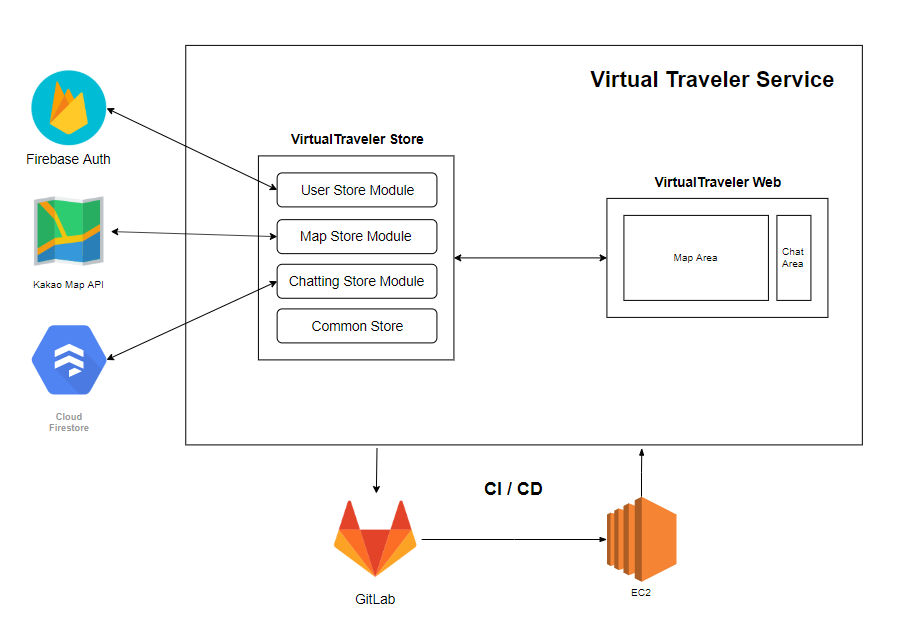
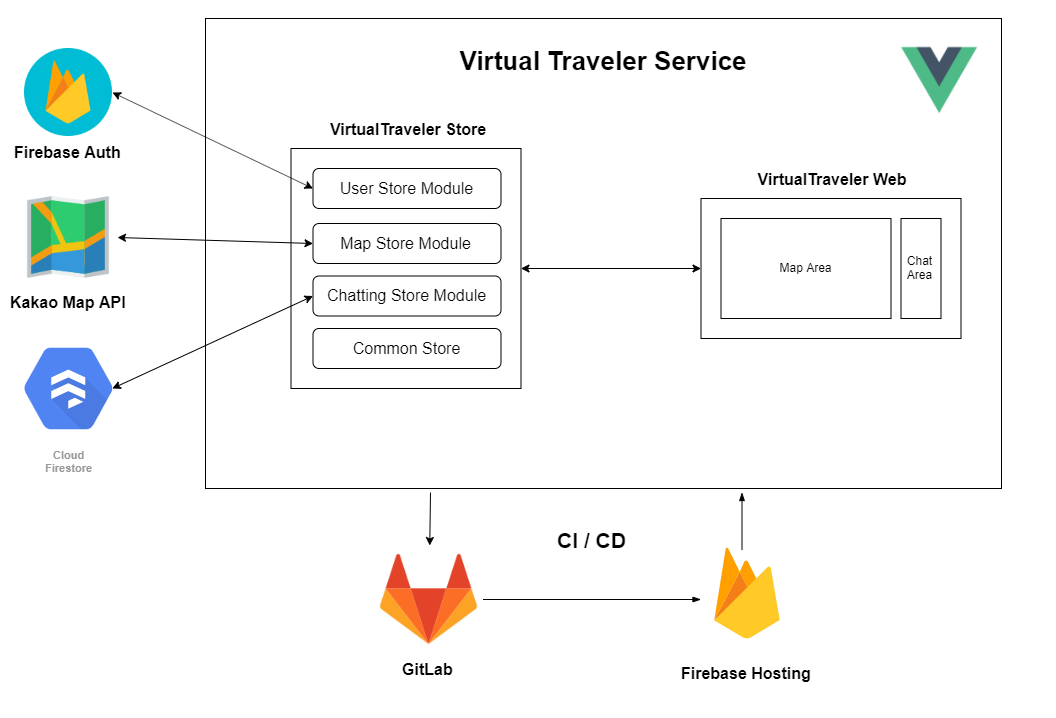
readme

Changed region(s): [[0.1554, 0.0604, 0.9634, 0.9666], [0.0, 0.0604, 0.1554, 0.6948], [0.2175, 0.0, 0.9323, 0.0302]]

diff --git a/README.md b/README.md
@@ -1,28 +1,46 @@
-# 방구석 여행
+<img src="./deliverables/logo.png" style="zoom:60%;" >
+
+## 🌎 웹으로 여행하자!
+
+- ### 일상에 지친 당신!
+
+- ### 여행갈 형편이 되지않는 당신!
+
+- ### 심심한 당신!
+
+  ### 바로 당신을 위한 가상 여행 서비스 '방구석 여행'
+
+  
+
+##  💡 주요 기능
+
+- ### 랜덤 닉네임
+
+  <img src="./deliverables/randomnickname.gif">
 
 
 
+- ### 실시간 마커 이동
 
-
-로고
-
-
-
-## 캐치프레이즈(Catchphrase)
+  <img src="./deliverables/realtimemarker.gif">
 
 
 
-## 주요 기능(Features)
+- ### 실시간 공유 로드뷰
+
+  <img src="./deliverables/realtimeroadview.gif">
 
 
 
-## 시작하기(Quick Start)
+- ### 채팅
+
+  <img src="./deliverables/chatting.gif">
 
 
 
-## 라이센스 (License)
+## 라이센스
 
-
+ ### This is released under the MIT license. See [LICENSE](./LICENSE) for details. 
 
 
 
@@ -34,31 +52,161 @@
 
 
 
-## 팀
+## 👨👩👧👦  팀
+
+- #### 조우현 : Project Manager
+
+  - `CI/CD`, `UI`, `Firebase Authentication`
+
+- #### 곽빛나라 : Map part Developer
+
+  - `Kakao map`, `chat room & map connector`
+
+- #### 채윤병 : Map part Developer
+
+  - `Kakao roadview`, `chat room & roadview connector`
+
+- #### 최승미 : Chat part Developer
+
+  - `Firestore Database design & implement`, `chat room design`
+
+- #### 강민 : Chat part Developer
+
+  - `Firestore Database design`, `random nickname`
 
 
 
-## 프로젝트 일정
+## 📆 프로젝트 일정
+
+<img src="./deliverables/schedule.png">
 
 
 
-## 프로젝트 특징
+## 💡 프로젝트 특징
+
+- CI / CD를 활용한 빌드 테스팅 / 배포 자동화
+
+  - Git Branch 전략
+
+    - `Master Branch` 
+
+      배포용 브랜치로 해당 브랜치로 merge되면 자동으로 배포된다.
+
+    - `Develop Branch` 
+
+      개발중 가장 최신화된 버전의 소스
+
+    - `Feature Branch`
+
+      기능 개발시 `Develop Branch`로 부터 생성, 개발 완료후 `Develop Branch`로 merge
+
+      
+
+  - Commit Chart
+
+    <img src="./deliverables/commitchart.png">
+
+    
+
+  - Pipeline Chart
+
+    <img src="./deliverables/pipelinechart.png">
 
 
 
-	## 프로젝트 아키텍쳐
+- 코드리뷰 및 문제해결 나누기
+
+  <img src="./deliverables/meeting2.jpg">
+
+  
+
+  <img src="./deliverables/meeting1.jpg">
 
 
 
+	## 🧱 프로젝트 아키텍쳐
+
+<img src="./deliverables/service-architecture.png">
+
+- Service Flow
+
+  <img src="./deliverables/serviceflow.jpg">
 
 
 
+## 📚 문제해결 및 도움되는 문서
 
-## WIKI
+- **문서 작성**
+
+  - <a href="./wiki/about_markdown.md">마크다운 기본 문법</a>
+
+    
+
+- **개발환경**
+
+  - CI / CD
+
+    - <a href="./wiki/cicd.md">CI / CD 개념정리</a>
+    - <a href="./wiki/gitlab-ci.md">GitLab CI/CD 도입하기</a>
+
+  - <a href="./wiki/about_vscode.md">VScode 팁 모음</a>
+
+  - <a href="./wiki/ESlint.md">ESlint</a>
+
+  - <a href="./wiki/about_MVVMpattern.md">MVVM패턴</a>
+
+    
+
+- **Chatting**
+
+  - <a href=" https://cionman.tistory.com/50 ">Firebase Realtime database chatting app</a>
+    - <a href="./wiki/about_realtime_database_chat.md">분석</a>
+  - <a href=" https://www.youtube.com/watch?v=ifOzAyR1cG4 ">Firebase Firestore chatting app</a>
+    - <a href="./wiki/about_firebase.md">분석</a>
+
+  
+
+- **Vue**
+
+  - <a href=" https://joshua1988.github.io/web-development/vuejs/vue-structure/ ">실무에서 사용하는 Vue.js 프로젝트 구조</a>
+  - <a href="https://joshua1988.github.io/web-development/vuejs/boost-productivity/">Vue.js 개발 생산성을 높여주는 도구 3가지</a>
+  - <a href=" https://programmingsummaries.tistory.com/385 ">pakage.json에 대하여</a>
+  - <a href="./wiki/vuex-vue.md">Vuex에 대하여</a>
+  - <a href="./wiki/es6-for-vue.md">Vue.js에 필요한 es6 문법</a>
+  - <a href="./wiki/lifecycle-vue.md">Lifecycle에 대하여</a>
+
+  
+
+- **JavaScript**
+
+  - <a href="./wiki/about_promise_async_await.md">비동기 개념 정리(Promise, Async/Await)</a>
+  - <a href="./wiki/javascript-modularization.md">ES6 Import & Export</a>
+  - <a href="./wiki/var_let_const.md">JavaScript의 변수선언(var, let, const)</a>
+  - <a href="./wiki/this.md">상황에 따른 this</a>
+  - <a href="./wiki/about_callback_function.md">Javascript의 callback 개념</a>
+  - <a href="./wiki/exception_handling.md">예외 처리</a>
+  - <a href="./wiki/JSON.md">JSON</a>
+
+  
+
+- **API**
+
+  - <a href="./wiki/about_rest.md">REST API 개념정리</a>
+
+  - <a href="./wiki/about_roadview.md">Kakao Roadview</a>
+
+    
+
+- **Server**
+
+  - <a href="https://tansfil.tistory.com/58?category=255594">Session/Cookie, JWT 인증 방식</a>
+  - <a href="https://tansfil.tistory.com/59?category=255594">Access Token + Refresh Token 인증 방식</a>
+  - <a href="https://tansfil.tistory.com/60?category=255594">SNS 로그인, OAuth</a>
+  - <a href="./wiki/about_firebase_auth.md">Firebase Auth</a>
 
 
 
-## 회의록
+## 🤘 회의록
 
 
 
